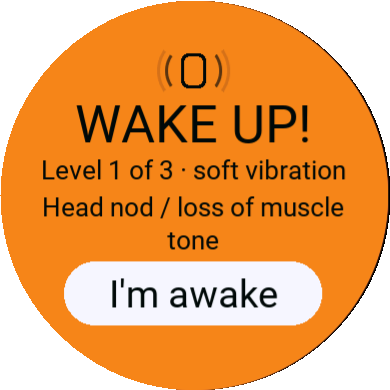
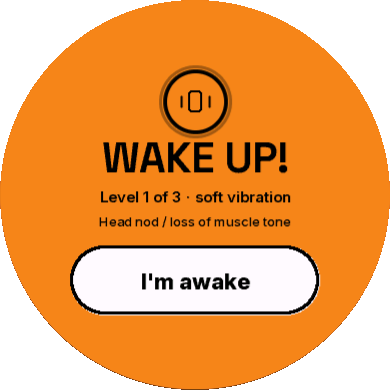
docs(img): refreshed comparisons and store screenshots
Comparisons with the web design, taken from the 1.2.0 release build in
Spanish and shown at the same content scale (the 220x60 button):

- comparacion-esfera.png (new): the paused watch face;
- comparacion-guardia.png: two frames of the active guard, the first one
  with the button focus border;
- comparacion-alertas.png: alert levels 1 and 3, at the pulse frame that
  matches each reference.

The 20 store screenshots (docs/img/es-*, en-*) are retaken with the custom
fonts; STORE.md describes how they were taken and PENDIENTES drops the
item asking for them.

diff --git a/docs/STORE.md b/docs/STORE.md
@@ -114,8 +114,9 @@ Los ajustes los sincroniza Garmin Connect como en cualquier app de Connect IQ.
 
 ## 5. Capturas
 
-Tomadas del simulador del SDK 9.3.0 (fr165, compilación de release) con `PrintWindow`, sin
-usar el ratón ni el teclado. 390×390 px, con lo que queda fuera de la pantalla redonda
+Tomadas del simulador del SDK 9.3.0 (fr165, compilación de release de la **1.2.0**, con las
+fuentes propias: Space Grotesk, Inter y JetBrains Mono) con `PrintWindow`, sin usar el
+ratón ni el teclado. 390×390 px, con lo que queda fuera de la pantalla redonda
 transparente. En `docs/img/`, prefijo `es-` (español) y `en-` (inglés). Ver la galería en
 la sección 7.
 
@@ -154,8 +155,8 @@ el `.iq` nuevo a la **misma** app del portal. El `id` del manifest
 
 | | Español | English |
 |---|---|---|
-| Esfera en pausa | ![](img/es-esfera.png) | ![](img/en-esfera.png) |
-| Orbe activo (modo demo) | ![](img/es-orbe-activo.png) | ![](img/en-orbe-activo.png) |
+| Esfera en pausa (sensor real) | ![](img/es-esfera.png) | ![](img/en-esfera.png) |
+| Orbe activo (modo demo, tecleo) | ![](img/es-orbe-activo.png) | ![](img/en-orbe-activo.png) |
 | Alerta nivel 1 | ![](img/es-alerta-nivel1.png) | ![](img/en-alerta-nivel1.png) |
 | Alerta nivel 2 | ![](img/es-alerta-nivel2.png) | ![](img/en-alerta-nivel2.png) |
 | Alerta nivel 3 | ![](img/es-alerta-nivel3.png) | ![](img/en-alerta-nivel3.png) |
@@ -165,6 +166,7 @@ el `.iq` nuevo a la **misma** app del portal. El `id` del manifest
 | Historial | ![](img/es-historial.png) | ![](img/en-historial.png) |
 | Sin datos del sensor | ![](img/es-sin-datos.png) | ![](img/en-sin-datos.png) |
 
-Las alertas de nivel 1 a 3 son "Probar alerta" (motivo: cabeceo). La de nivel 3 en inglés
-se tomó después de acortar "max vibration". El historial contiene guardias de prueba del
-modo demo.
+Las alertas de nivel 1 a 3 son "Probar alerta" (motivo: cabeceo), en el punto más claro de
+su pulso. La esfera en pausa y "Sin datos del sensor" son con el sensor real (modo demo
+apagado, sin el punto cian junto a la batería); el orbe activo, el resumen y el historial,
+con guardias de prueba del modo demo. Capturas de la 1.2.0 (2026-11-15).

diff --git a/docs/PENDIENTES.md b/docs/PENDIENTES.md
@@ -651,8 +651,6 @@ No necesita el reloj para empezar, o es una mejora que no bloquea la 1.0.
 - [ ] Subir `bin\FocusPulse.iq` a la Connect IQ Store con la ficha de
       [STORE.md](STORE.md) (cuenta de desarrollador, versión **1.2.0** = `AppInfo.VERSION`) y
       revisar en el formulario los requisitos actuales de ícono, capturas y textos.
-- [ ] **Rehacer las capturas de la tienda** (`docs/img/es-*.png`, `en-*.png`) con la 1.1.0:
-      las actuales son de la 1.0.0 (orbe, botón y alertas anteriores al diseño web).
 - [ ] Ver el ícono de 54×54 en el menú de apps del simulador y del reloj.
 - [ ] **Editor de ajustes del simulador**: depende del nombre con que el simulador registró
       la app (FOCUSPULSE-TEST en este equipo); si tras *Reset All App Data* dice "No settings
